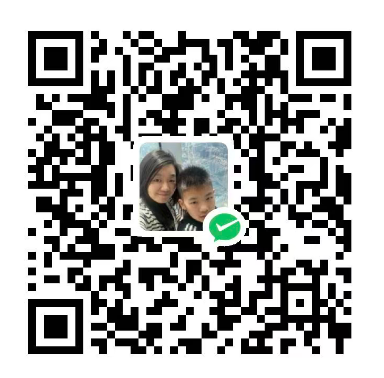
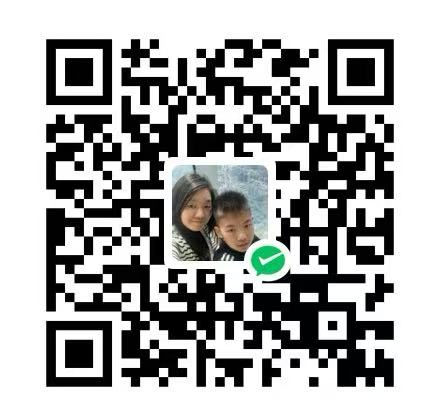
Add files via upload

diff --git a/index.html b/index.html
@@ -475,9 +475,10 @@ body{font-family:'Courier New',monospace;background:#0a0a1a;color:#e2e8f0;min-he
 
     <!-- 付款区域 -->
     <div style="width:100%;background:rgba(15,15,35,.95);border:2px solid rgba(202,138,4,.4);border-radius:12px;padding:16px;text-align:center">
-      <div style="font-size:13px;color:#94a3b8;margin-bottom:10px">第一步：扫码付款 <span style="color:#fbbf24;font-weight:700">¥9.90</span></div>
+      <div style="font-size:13px;color:#94a3b8;margin-bottom:10px">第一步：扫码加微信，转账 <span style="color:#fbbf24;font-weight:700">¥9.90</span></div>
       <img src="./qrcode.png" style="width:200px;height:200px;object-fit:contain;border-radius:8px;display:block;margin:0 auto;">
-      <div style="font-size:11px;color:#64748b;margin-top:8px">微信扫码 · 付款后截图发给我获取兑换码</div>
+      <div style="font-size:11px;color:#64748b;margin-top:8px">📱 长按图片 → 识别二维码 → 添加微信</div>
+      <div style="font-size:11px;color:#64748b;margin-top:4px">转账 ¥9.90 后，我会发兑换码给你</div>
     </div>
 
     <!-- 兑换码输入 -->
